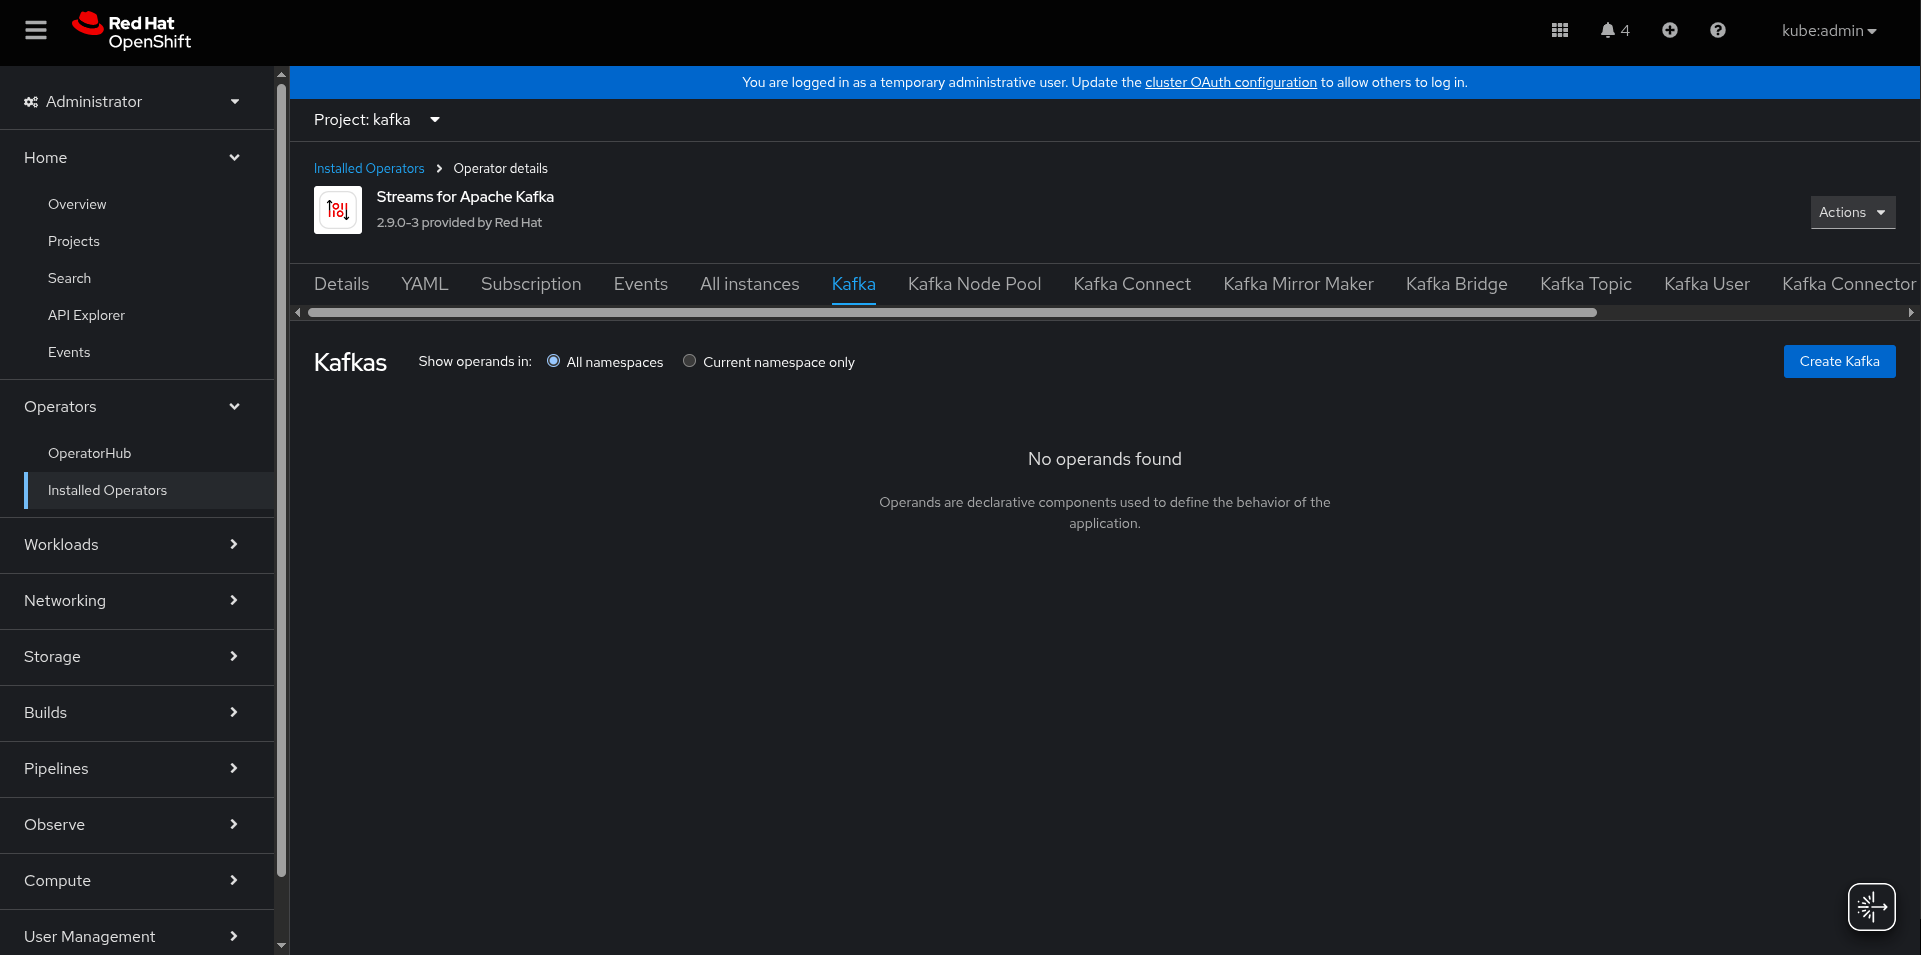
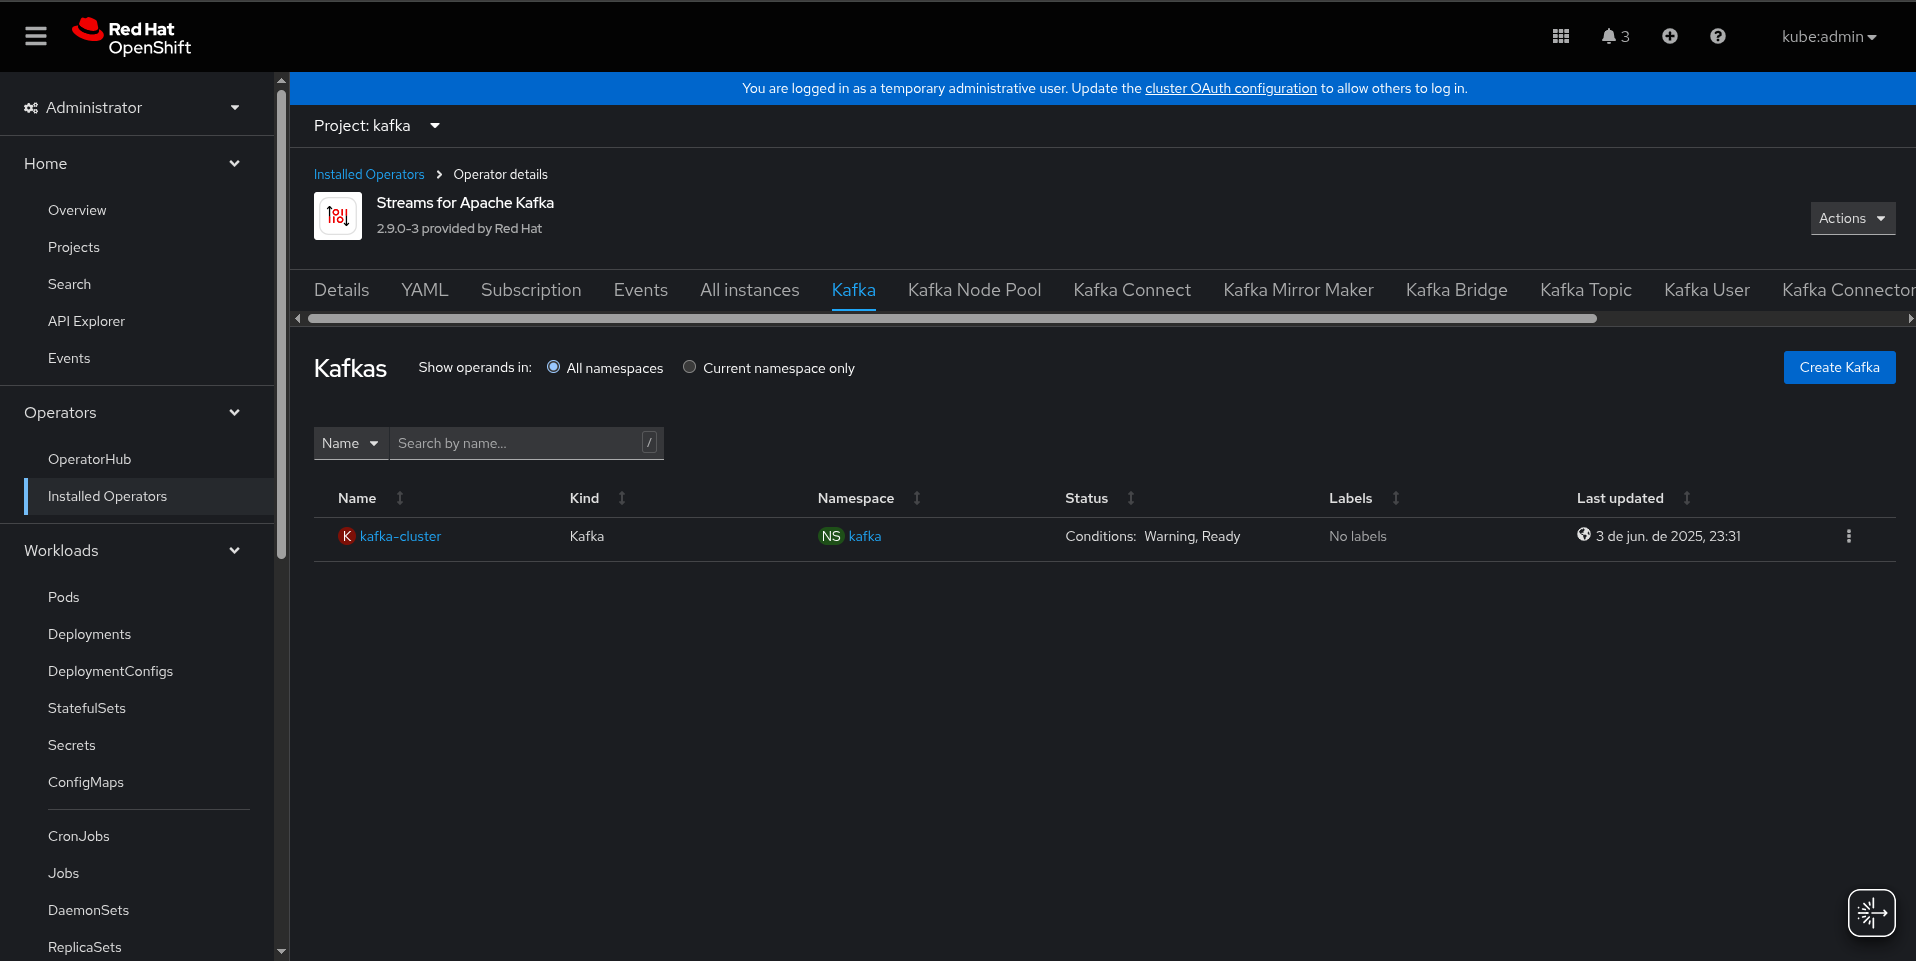
doc: Creating How-to install and configure Red Hat Streams for Apache Kafka step.

diff --git a/README.md b/README.md
@@ -1,3 +1,130 @@
+# Red Hat Streams for Apache Kafka Lab
+
+This lab aims to practically demonstrate the functionalities of the Kafka Console integrated with Red Hat Streams for Apache Kafka 2.9, enabling real-time visualization and monitoring of the main components of a Kafka cluster.
+
+During the exercise, a simple and instructional scenario will be implemented, in which a Producer application will send order records to a Kafka topic called orders, while a Consumer application will be responsible for consuming these records and displaying them via log. The main focus will be on using the Kafka Console to explore the following features:
+
+* Visualization of topics and their messages
+
+* Monitoring of consumer groups
+
+* Checking operational metrics of the cluster
+
+* Tracking detailed information about partitions, offsets, and replication status
+
+This environment has been prepared to facilitate the understanding of essential observability concepts in Kafka and to demonstrate how the Kafka Console can be a powerful tool in supporting the operation and diagnosis of Kafka clusters in corporate environments.
+
+### <h2 style="color: #e5b449;">What is</h2>
+
+**Red Hat Streams for Apache Kafka** is an enterprise distribution of Apache Kafka offered by Red Hat, aimed at developing event-driven applications in Kubernetes and OpenShift environments. It provides a reliable, secure, and integrated platform for real-time data streaming, with full Red Hat support, and includes operators to simplify the installation, configuration, management, and scalability of Kafka clusters in hybrid or on-premises cloud environments.
+
+**Red Hat Streams for Apache Kafka Console** is a web interface included with Red Hat Streams for Apache Kafka that allows intuitive visualization and monitoring of the main components of a Kafka cluster. With it, you can inspect topics, track real-time messages, view consumer groups, check operational metrics, and access detailed information about partitions, offsets, and replication status. The console enhances Kafka observability and management, being especially useful in OpenShift environments, where it integrates natively with the cluster.
+
+### <h2 style="color: #e5b449;">Technologies and versions used in this tutorial</h2>
+
+| Component                                   | Version |
+|---------------------------------------------|---------|
+| Red Hat OpenShift Container Platform        | 4.17    |
+| Red Hat Streams for Apache Kafka            | 2.9.0   |
+| Red Hat Streams for Apache Kafka Console    | 2.9.0   |
+| Quarkus Community (Java 17)                 | 3.20    |
+
+
+### <h2 style="color: #e5b449;">How-to install and configure Red Hat Streams for Apache Kafka</h2>
+
+First, create a new project called kafka. To do this, in the left-hand menu, select Home > Projects and click the Create Project button.
+
+![Creating kafka project](./images/kafka/01%20-%20Creating%20the%20Kafka%20project.png)
+
+In the window that opens, fill in the Name field with kafka and click the Create button.
+
+Next, in the left-hand menu, go to Operators > OperatorHub. On this screen, search for "kafka" and select the operator Streams for Apache Kafka provided by Red Hat.
+
+An information screen about the operator will appear. Click the Install button.
+
+![Installing Kafka Operator](./images/kafka/02%20-%20Installing%20Kafka%20Operator.png)
+
+In the form that appears, keep the default values and click Install.
+Once the installation is successfully completed, the message "Installed operator: ready to use" will be displayed. At this point, click the View Operator button. The Operator details screen will appear.
+
+![Installing Kafka Operator](./images/kafka/03%20-%20Installing%20Kafka%20Operator.png)
+
+Now let's start creating the Kafka CRs located in the [infra/kafka/](./infra/kafka/) directory of this repository. From here on, we'll proceed via terminal using the oc CLI.
+
+```
+$ cd /infra/kafka
+```
+
+Log in to OpenShift using the command:
+
+```
+$ oc login -u <USER> -p <PASSWORD> <HOST>
+```
+
+If you're not in the kafka namespace, switch to it by running:
+
+```
+$ oc project kafka
+```
+
+Apply the Kafka resource by executing:
+
+```
+$ oc apply -f kafka.yaml
+```
+
+Wait a moment, as it may take some time for all Kafka cluster resources to be provisioned. Finally, verify that the resource was created in the Kafka tab with the Ready status.
+
+![Creating Kafka resource](./images/kafka/04%20-%20Creating%20Kafka%20resource.png)
+
+
+Apply the KafkaUser resources by executing:
+
+```
+$ oc apply -f kafka-app-user.yaml -f kafka-console-user.yaml
+```
+
+Verify that the users were created in the KafkaUser tab with the Ready status.
+
+![Creating KafkaUser resources](./images/kafka/05%20-%20Creating%20KafkaUser%20resources.png)
+
+Apply the KafkaTopic resource by running:
+
+```
+$ oc apply -f kafka-topic.yaml
+```
+
+Verify that the resource was created in the KafkaTopic tab with the Ready status.
+![Creating KafkaTopic resources](./images/kafka/06%20-%20Creating%20KafkaTopic%20resource.png)
+
+Check if all pods in the kafka namespace are in Running status. Go to the side menu and select Workloads > Pods.
+
+![Kafka pods running](./images/kafka/07%20-%20Kafka%20pods%20running.png)
+
+We’ve completed the Kafka installation part in the OpenShift cluster. Proceed to the next step.
+
+
+
+
+
+
+
+
+
+
+
+
+
+
+
+
+
+
+
+
+
+
+
 
 
 
